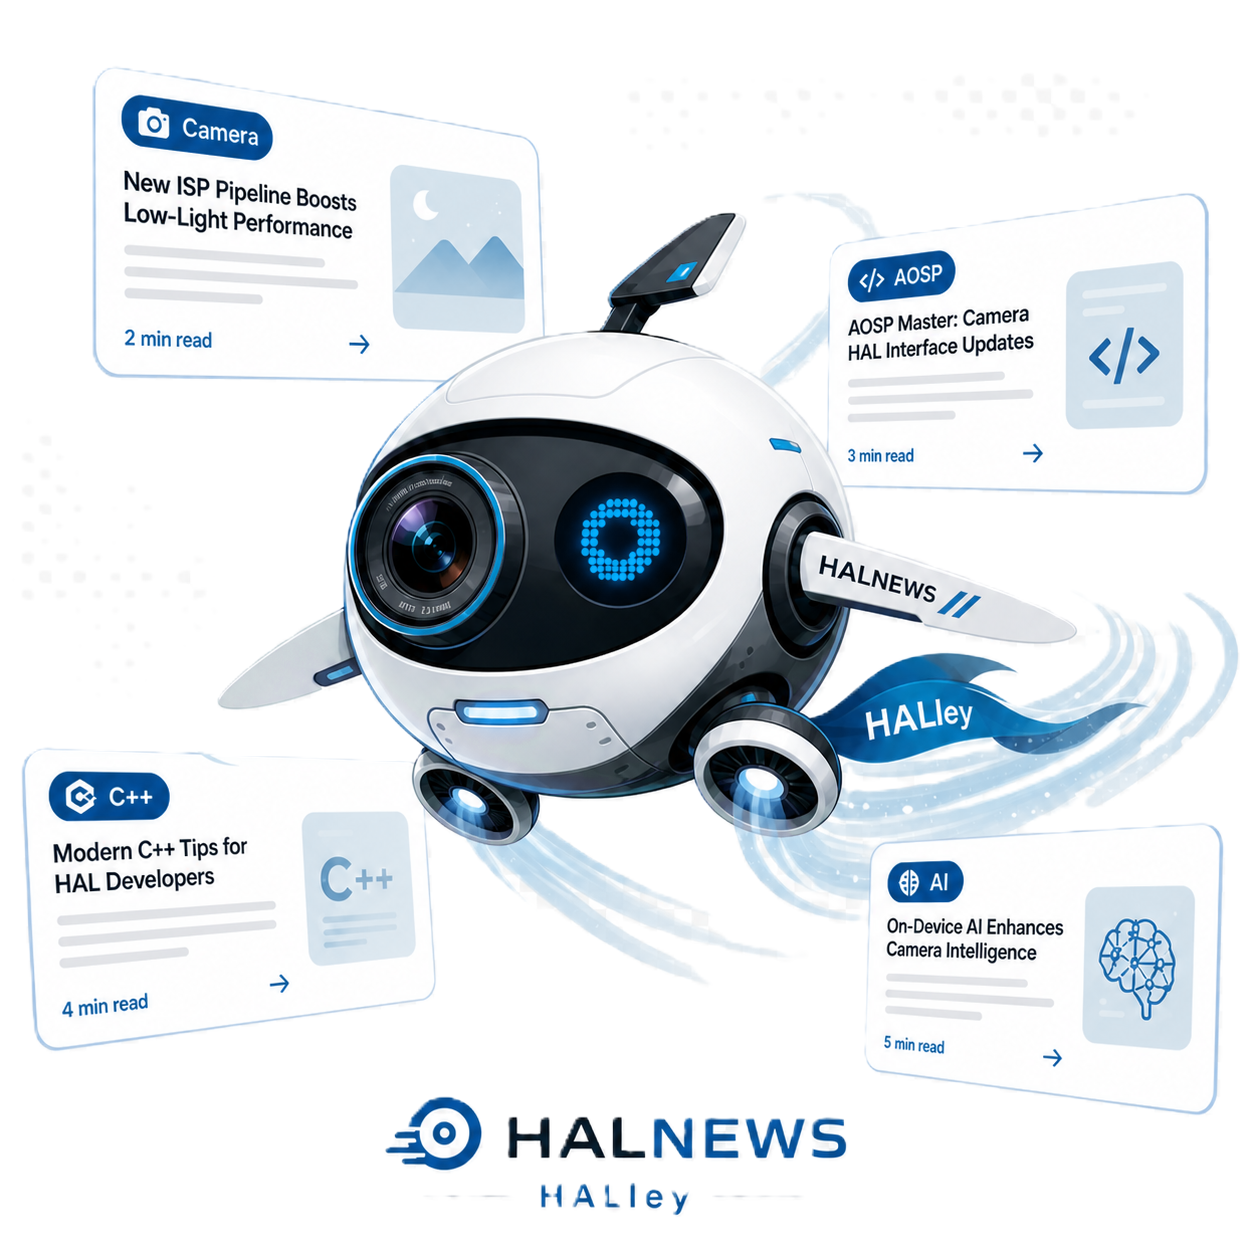
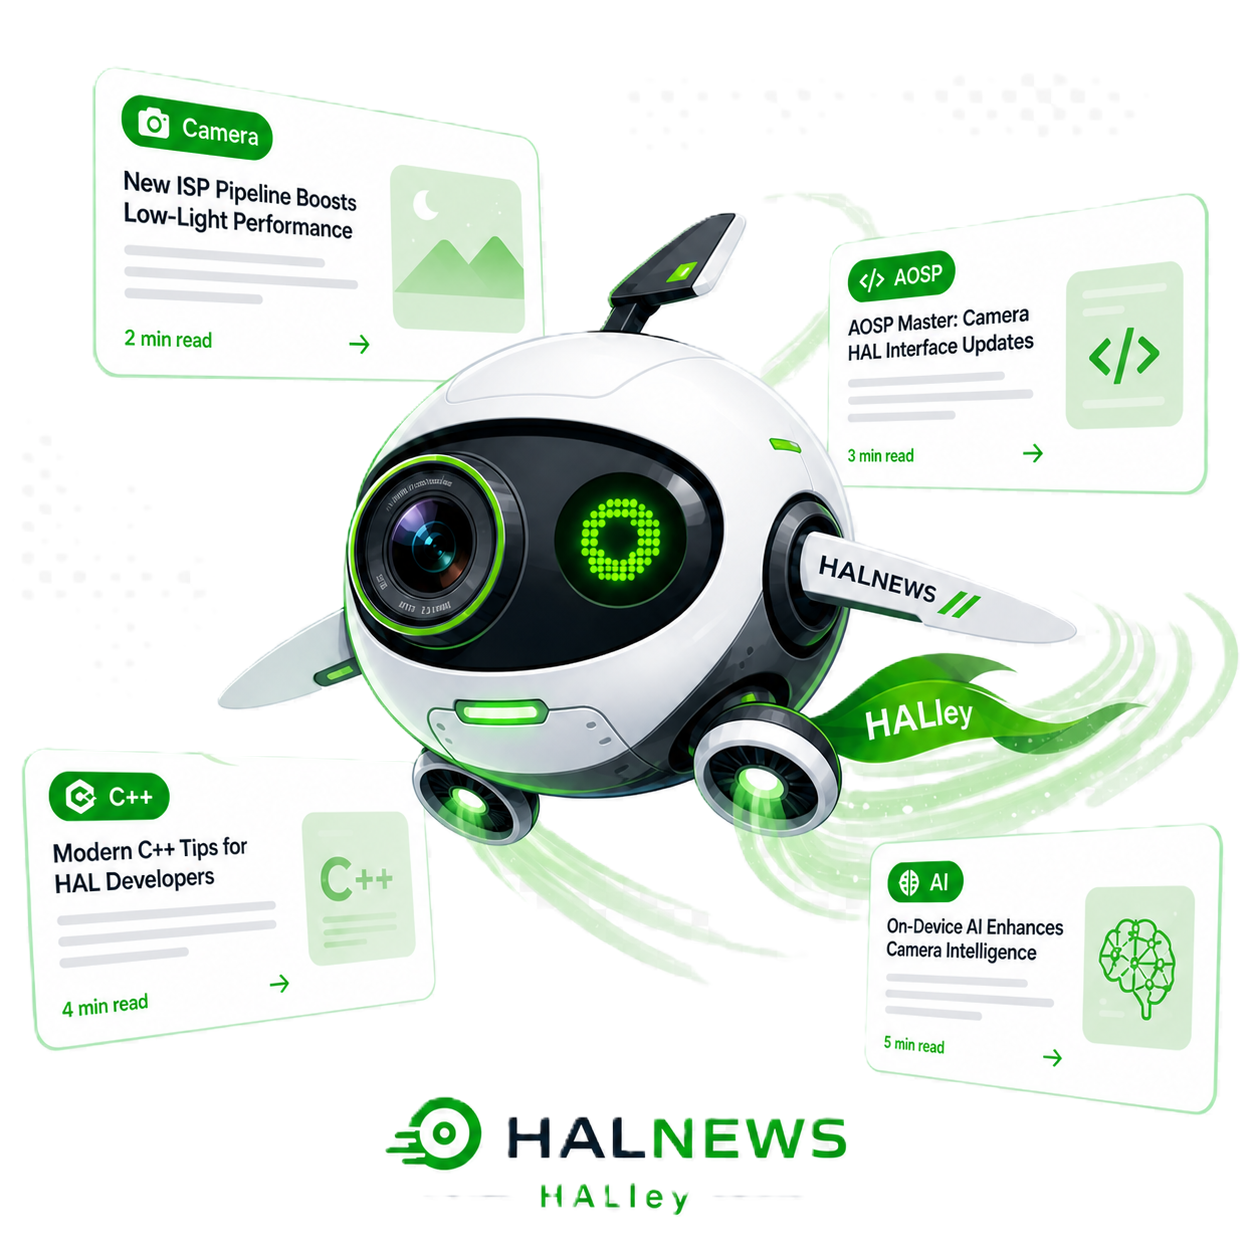
Restore green HALley mascot and align archive spacing to handoff mockup
Restore the handoff green HALley rasters (reverting #785's blue recolor),
render the featured hero fallback image as a centered brand graphic
(.featured-img.is-brand) instead of a full-bleed stretch, prefer the
first real non-fallback article image for cards, tint the archive intro
muted, and tighten the archive vertical rhythm: drop the header/stat gap
and min-height, hide the redundant result-summary line (sr-only), and
show all current issues on one page (page size 12). Update the CSS and
pagination test locks to the new design intent.

diff --git a/src/shared/test/workflow/archive-page.test.js b/src/shared/test/workflow/archive-page.test.js
@@ -275,8 +275,8 @@ test('archive page renders all newsletters including latest in date-descending o
   assert.equal(elements['[data-archive-pagination]'].hidden, true);
 });
 
-test('archive page paginates newsletters eight per page and keeps page in the URL', async () => {
-  const items = Array.from({ length: 11 }, (_, index) => {
+test('archive page paginates newsletters twelve per page and keeps page in the URL', async () => {
+  const items = Array.from({ length: 15 }, (_, index) => {
     const day = String(25 - index).padStart(2, '0');
     return newsletter(`2026-05-${day}`, `Issue ${day}`);
   });
@@ -285,12 +285,12 @@ test('archive page paginates newsletters eight per page and keeps page in the UR
   let html = rendered.elements['[data-archive-grid]'].innerHTML;
   let cards = archiveCards(html);
 
-  assert.equal(cards.length, 8);
+  assert.equal(cards.length, 12);
   assert.match(html, /Issue 25/);
-  assert.match(html, /Issue 18/);
-  assert.doesNotMatch(html, /Issue 17/);
-  assert.match(rendered.elements['[data-result-summary]'].textContent, /전체 11개 아카이브 중 1-8개를 최신순으로 표시 중입니다/);
-  assert.equal(rendered.elements['[data-archive-count]'].textContent, '11호');
+  assert.match(html, /Issue 14/);
+  assert.doesNotMatch(html, /Issue 13/);
+  assert.match(rendered.elements['[data-result-summary]'].textContent, /전체 15개 아카이브 중 1-12개를 최신순으로 표시 중입니다/);
+  assert.equal(rendered.elements['[data-archive-count]'].textContent, '15호');
   assert.equal(rendered.elements['[data-archive-pagination]'].hidden, false);
   assert.match(rendered.elements['[data-archive-pagination]'].innerHTML, /data-archive-page="1" aria-current="page"/);
   assert.match(rendered.elements['[data-archive-pagination]'].innerHTML, /data-archive-page="2"/);
@@ -300,10 +300,10 @@ test('archive page paginates newsletters eight per page and keeps page in the UR
   cards = archiveCards(html);
 
   assert.equal(cards.length, 3);
-  assert.match(html, /Issue 17/);
-  assert.match(html, /Issue 15/);
-  assert.doesNotMatch(html, /Issue 18/);
-  assert.match(rendered.elements['[data-result-summary]'].textContent, /전체 11개 아카이브 중 9-11개를 최신순으로 표시 중입니다/);
+  assert.match(html, /Issue 13/);
+  assert.match(html, /Issue 11/);
+  assert.doesNotMatch(html, /Issue 14/);
+  assert.match(rendered.elements['[data-result-summary]'].textContent, /전체 15개 아카이브 중 13-15개를 최신순으로 표시 중입니다/);
   assert.equal(rendered.location.search, '?page=2');
   assert.deepEqual(rendered.historyUpdates, ['/archive.html?page=2']);
 });
@@ -338,7 +338,7 @@ test('archive page filters by topic, updates aria-pressed, and changes sort orde
 });
 
 test('archive page clamps stale page URLs and resets page when filters change', async () => {
-  const items = Array.from({ length: 10 }, (_, index) => {
+  const items = Array.from({ length: 15 }, (_, index) => {
     const day = String(25 - index).padStart(2, '0');
     const tags = index < 2 ? ['Android'] : ['Camera HAL'];
     return newsletter(`2026-05-${day}`, `Issue ${day}`, tags);
@@ -348,8 +348,8 @@ test('archive page clamps stale page URLs and resets page when filters change', 
 
   assert.equal(rendered.location.search, '?page=2');
   assert.deepEqual(rendered.historyUpdates, ['/archive.html?page=2']);
-  assert.equal(archiveCards(rendered.elements['[data-archive-grid]'].innerHTML).length, 2);
-  assert.match(rendered.elements['[data-result-summary]'].textContent, /전체 10개 아카이브 중 9-10개를 최신순으로 표시 중입니다/);
+  assert.equal(archiveCards(rendered.elements['[data-archive-grid]'].innerHTML).length, 3);
+  assert.match(rendered.elements['[data-result-summary]'].textContent, /전체 15개 아카이브 중 13-15개를 최신순으로 표시 중입니다/);
 
   topicHandler({ target: createTopicTarget('android') });
 

diff --git a/src/shared/test/workflow/homepage-archive.test.js b/src/shared/test/workflow/homepage-archive.test.js
@@ -493,7 +493,6 @@ test('archive grid CSS caps columns and preserves card interaction layout contra
   const css = readStylesheet();
   const archiveGrid = exactSelectorBlock(css, '.archive-grid');
   const archiveCard = exactSelectorBlock(css, '.archive-card');
-  const archivePageSection = exactSelectorBlock(css, '.archive-page-section');
   const archivePageGrid = exactSelectorBlock(css, '.archive-page .archive-grid');
   const archivePageCard = exactSelectorBlock(css, '.archive-page .archive-card');
   const archiveFocus = exactSelectorBlock(css, '.archive-card:focus-visible');
@@ -510,7 +509,6 @@ test('archive grid CSS caps columns and preserves card interaction layout contra
   assertCssDeclaration(wideGrid, 'grid-template-columns', 'repeat(3, minmax(0, 1fr))');
   assertCssDeclaration(archiveCard, 'display', 'flex');
   assertCssDeclaration(archiveCard, 'flex-direction', 'column');
-  assertCssDeclaration(archivePageSection, 'min-height', '520px');
   // mockup 카드 그리드 리듬: 세로 46px / 가로 28px.
   assertCssDeclaration(archivePageGrid, 'gap', '46px 28px');
   assertCssDeclaration(archivePageCard, 'padding', '0');

diff --git a/index.html b/index.html
@@ -247,8 +247,11 @@
     function renderFeaturedMedia(headline) {
       const imageSrc = safeImageSrc(headline.image_url) || FALLBACK_IMAGE;
       const alt = escapeHtml(headline.image_alt || headline.title);
+      // 실제 기사 이미지는 16:9 풀커버, 이미지 없이 fallback 그래픽이면 mockup 처럼
+      // 브랜드 히어로(44% 중앙 + drop-shadow) 로 보여 준다.
+      const imgClass = imageSrc === FALLBACK_IMAGE ? 'featured-img is-brand' : 'featured-img';
       return `<div class="featured-thumb nc-thumb">
-              <img class="featured-img" src="${escapeHtml(imageSrc)}" alt="${alt}" loading="eager" decoding="async" onerror="this.onerror=null;this.src='${FALLBACK_IMAGE}'">
+              <img class="${imgClass}" src="${escapeHtml(imageSrc)}" alt="${alt}" loading="eager" decoding="async" onerror="this.onerror=null;this.classList.add('is-brand');this.src='${FALLBACK_IMAGE}'">
             </div>`;
     }
 

diff --git a/articles/assets/js/newsletter-archive.js b/articles/assets/js/newsletter-archive.js
@@ -187,12 +187,15 @@
 
   const FALLBACK_CARD_IMAGE = 'assets/images/fallback/newsletter-default.svg';
 
-  // First weekly article image, or the shared newsletter fallback when none is available.
+  // First real weekly article image, or the shared newsletter fallback when none is available.
+  // Some legacy entries list a bundled fallback placeholder before a real https image, so we
+  // prefer the first non-fallback source and only fall back to the placeholder when none exists.
   function cardImage(entry) {
-    const [first] = ensureArray(entry && entry.article_images)
+    const images = ensureArray(entry && entry.article_images)
       .map(src => String(src ?? '').trim())
       .filter(Boolean);
-    return first || FALLBACK_CARD_IMAGE;
+    const firstReal = images.find(src => !src.includes('assets/images/fallback/'));
+    return firstReal || images[0] || FALLBACK_CARD_IMAGE;
   }
 
   function cardMetaHtml(entry) {

diff --git a/articles/archive.html b/articles/archive.html
@@ -78,7 +78,7 @@
           </label>
         </form>
 
-        <p class="archive-result-summary" data-result-summary aria-live="polite"></p>
+        <p class="archive-result-summary sr-only" data-result-summary aria-live="polite"></p>
       </section>
 
       <div class="archive-grid" data-archive-grid></div>
@@ -124,7 +124,7 @@
 
   <script src="assets/js/newsletter-archive.js"></script>
   <script>
-    const ARCHIVE_PAGE_SIZE = 8;
+    const ARCHIVE_PAGE_SIZE = 12;
     const archiveHelpers = window.NewsletterArchive;
     const statusEl = document.querySelector('[data-archive-status]');
     const controlsEl = document.querySelector('[data-archive-controls]');

diff --git a/articles/css/styles.css b/articles/css/styles.css
@@ -330,6 +330,7 @@ pre code {
 .archive-hero-description {
   max-width: 640px;
   margin-bottom: 0;
+  color: var(--muted);
   font-size: 1.1875rem;
   line-height: 1.45;
   overflow-wrap: anywhere;
@@ -1074,9 +1075,10 @@ pre code {
   font-size: 1rem;
 }
 
-.archive-page-section {
-  min-height: 520px;
-  padding-top: 34px;
+/* mockup: 헤더 hairline 아래로 통계 밴드가 바로 이어짐 — 섹션 자체 세로 패딩·최소 높이 없음.
+   (.homepage .section 의 padding-top 36px 를 이기려면 같은 특이도의 후행 규칙이어야 한다.) */
+.homepage .archive-page-section {
+  padding-top: 0;
 }
 
 .archive-status,
